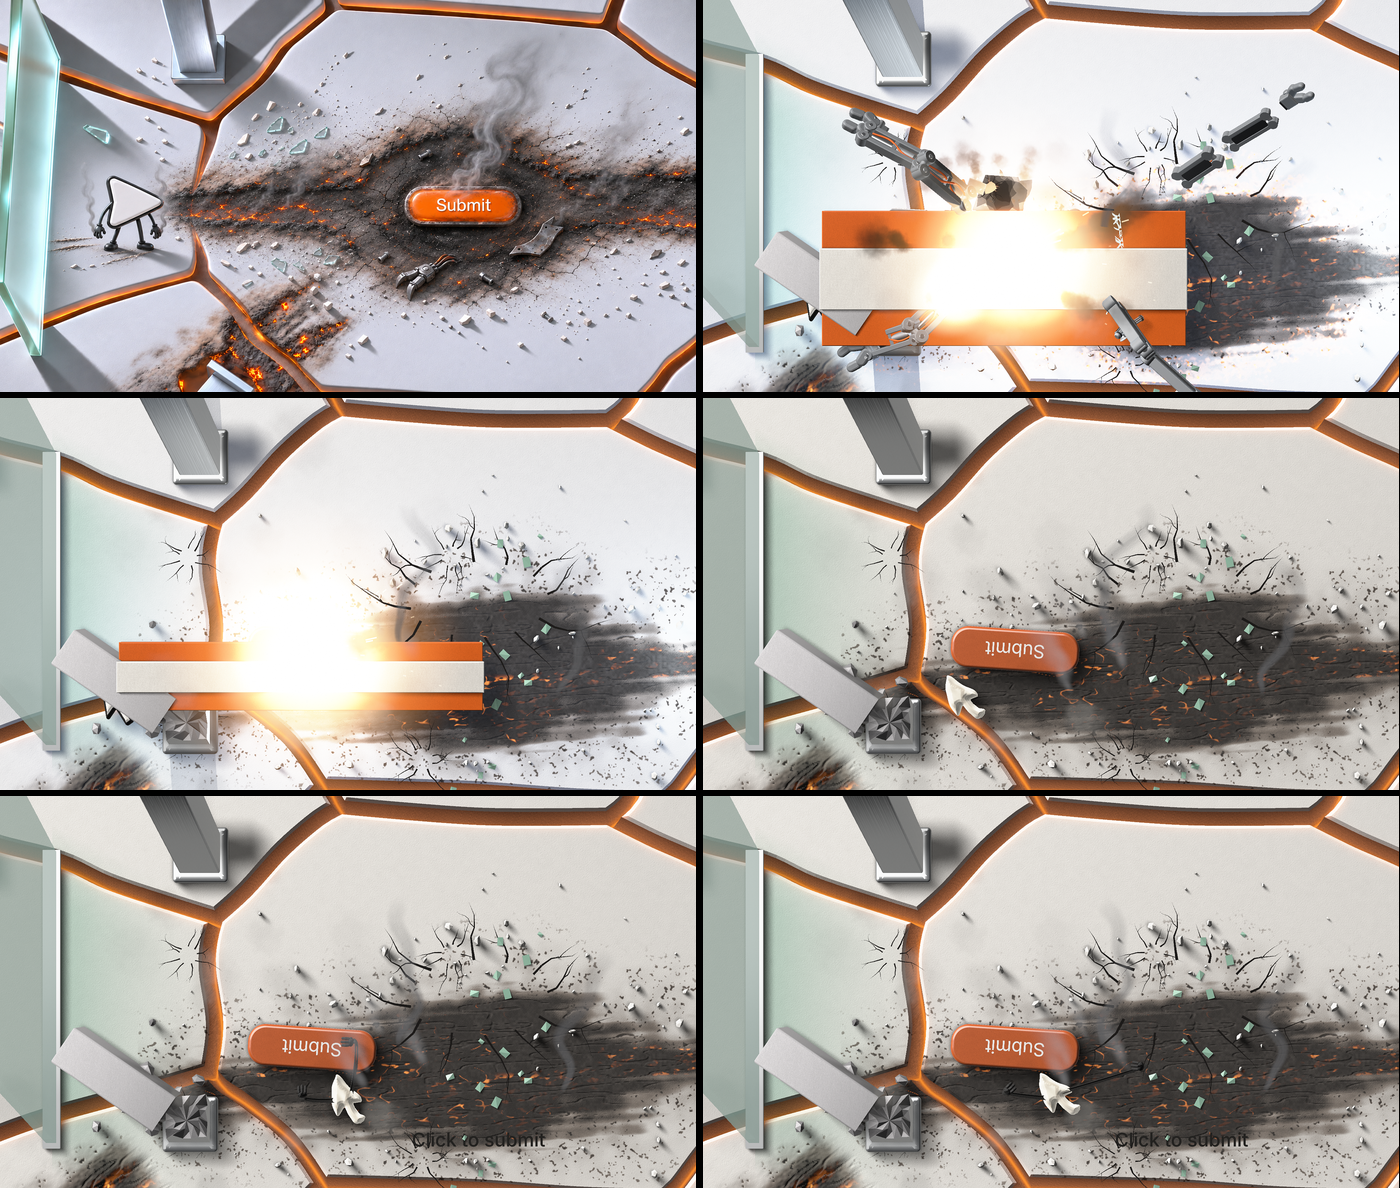
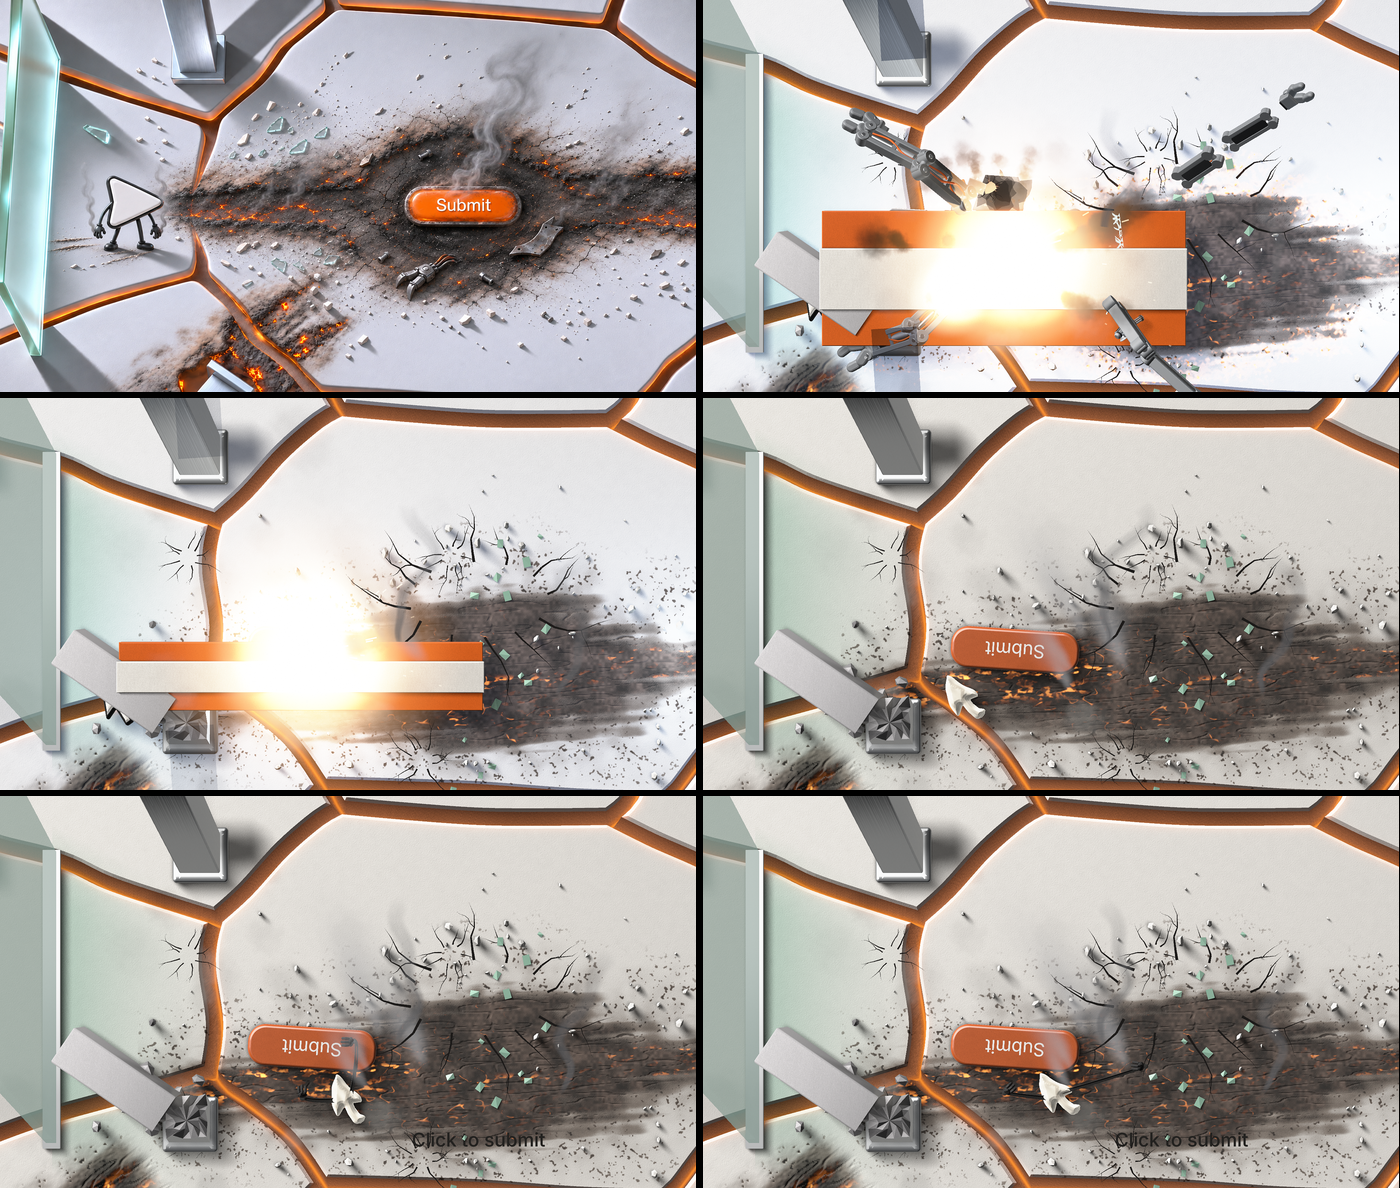
arena: the finish on the real page shot again at the last head; notes say whose things are in those frames

diff --git a/pipeline/change002/arena.md b/pipeline/change002/arena.md
@@ -143,7 +143,7 @@ Where the draw calls are. MEASURED in node at rest: 48 meshes are drawn, of whic
 
 At the full level and four samples the engine counts, for one picture: at rest 65,901 triangles and 121 draw calls (163 before the pillars were joined), after two blasts 73,409 and 151 (184 before), after the finishing blast 78,215 and 150 on the whole page and 43,028 and 66 in the close camera. The first picture after loading counts about twice that, since it includes the pass that draws the shadows.
 
-The real page with the boss's look on (local switch, LOOK1_ON true, at 26291694), the whole frame with everything of every helper in it: 223,620 triangles and 307 draw calls at 12 s; 267,910 and 399 at 43.5 s, just after a blast; 96,056 and 98 at 54.4 s, after the finishing blast in the close camera. At the interim (c6028fcb) the same moments counted 340,043 and 481, and 385,543 and 569. UNKNOWN: how much of that drop is the joined pillars and how much the other helpers' work merged since.
+The real page with the boss's look on (local switch, LOOK1_ON true, at 26291694), the whole frame with everything of every helper in it: 223,620 triangles and 307 draw calls at 12 s; 267,910 and 399 at 43.5 s, just after a blast; 96,088 and 98 at 54.4 s, after the finishing blast in the close camera (that frame and the other four of the finish at b362215a). At the interim (c6028fcb) the same moments counted 340,043 and 481, and 385,543 and 569. UNKNOWN: how much of that drop is the joined pillars and how much the other helpers' work merged since.
 
 Painting the wound of one blast: 56 to 115 ms at once for three different lines (node, this machine, while it was also drawing pictures, MEASURED at the first pass and not again). To keep it off the frame of the blast it is painted ahead while the cannon aims, a slice a frame over 36 frames (about 3 ms a frame), once the line has lain still from one frame to the next; what is left is done on the frame of the blast. The picture is the same either way (MEASURED: `tests/arena-breaks.test.ts`, slices equal the whole). The scorch of the finishing blast is painted the same way over 48 frames; MEASURED in node: the two tests that paint it whole and again in slices take about 3.9 s each, checks included.
 
@@ -195,7 +195,7 @@ The finish (finish-button-left.png):
 - `breaks.png`: after one, two and three blasts along different lines.
 - `box.png`: at rest with the box and a glint on a pillar.
 - `finish.png`: the finishing blast at share 0.15 and 0.60 with the beam's light, settled in the close camera, settled on the whole page, and the beam's light and shadows on the whole page.
-- `real-change.png`, `real-fight.png`, `real-finish.png`: the real page with the fight and the boss's look on (LOOK1_ON true, a local switch, not pushed), at 6.9, 7.3, 8.4 and 12 s; at 42.9, 43.2, 43.5 and 44.5 s; at 52.6, 53.3, 54.4, 56.0 and 58.5 s of the page.
+- `real-change.png`, `real-fight.png`, `real-finish.png`: the real page with the fight and the boss's look on (LOOK1_ON true, a local switch, not pushed), at 6.9, 7.3, 8.4 and 12 s; at 42.9, 43.2, 43.5 and 44.5 s (both at 26291694); at 52.6, 53.3, 54.4, 56.0 and 58.5 s of the page (at b362215a). In the finish frames the orange and white bar, the button, the wreck, the black cracks and the green bits are the fight's and the look's, not the arena's.
 - `measure-low.json`: the table above.
 
 Made with `node tools/arena-shots.mjs [rest|change|breaks|blast|box|finish] [--no-build] [--level low] [--samples N] [--measure]`. The real page frames were made with the site's own still tool (`tools/lib/capture.mjs`, page `boss`, tier draft) from a local copy of this branch.
